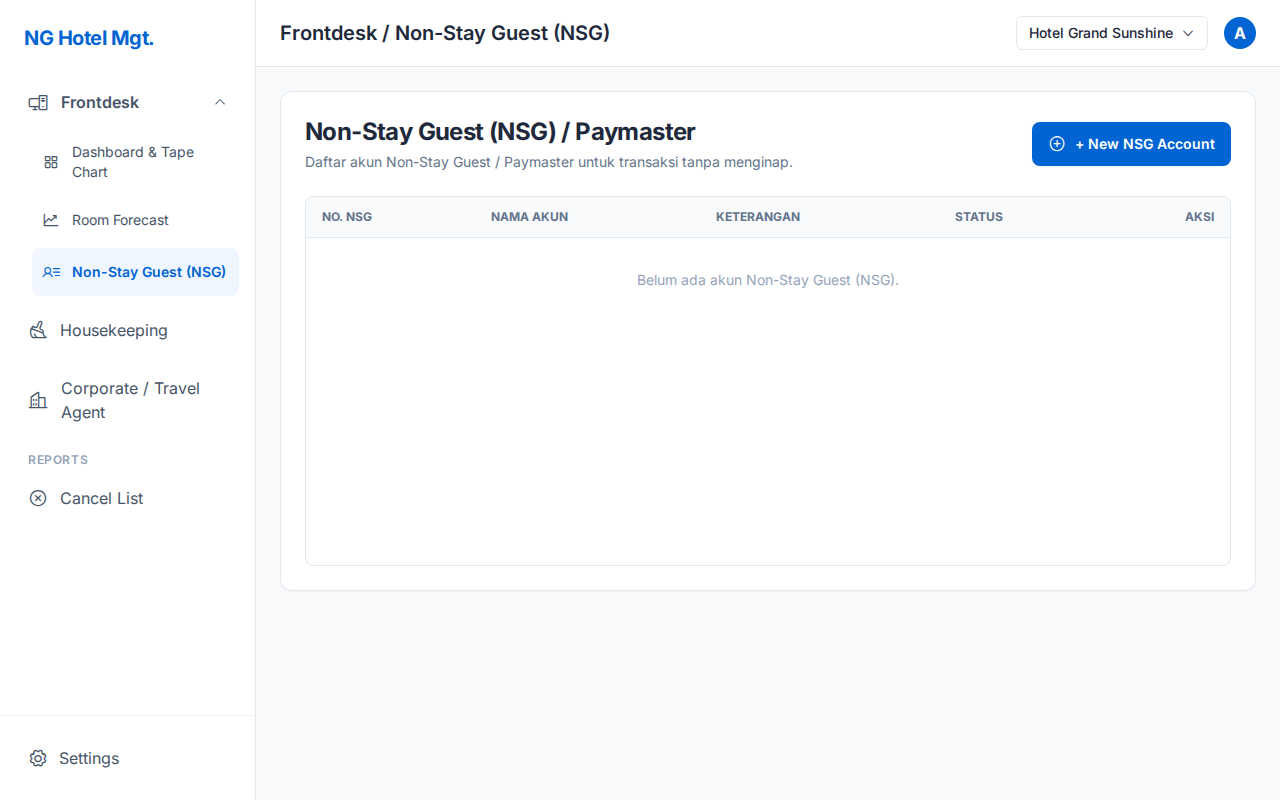
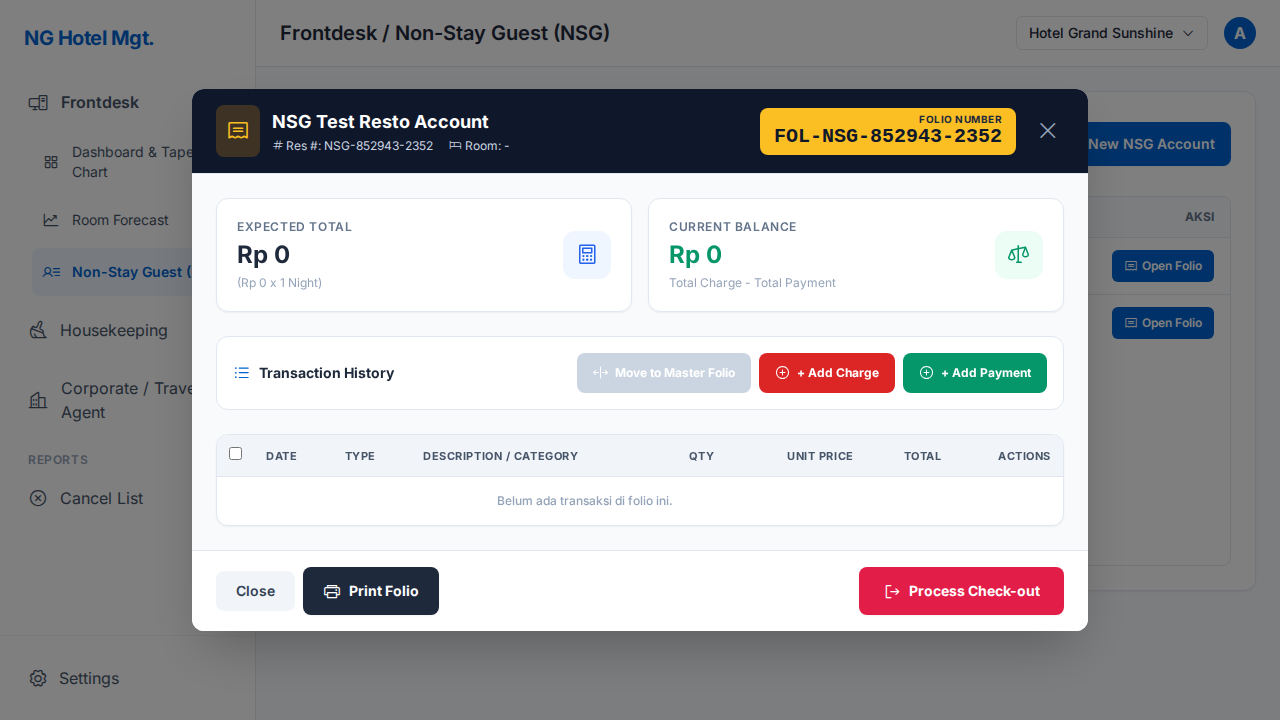
feat: implement fetchNsgList and handleSaveNsg for NSG module

diff --git a/index.html b/index.html
@@ -101,7 +101,7 @@
                 </button>
             </div>
 
-            <form id="nsgAccountForm" onsubmit="event.preventDefault();" class="space-y-4">
+            <form id="nsgAccountForm" onsubmit="handleSaveNsg(event)" class="space-y-4">
                 <div>
                     <label class="block text-xs font-medium text-slate-600 mb-1">Nama Akun <span class="text-red-500">*</span></label>
                     <input type="text" id="nsgAccountName" required placeholder="Contoh: NSG - Restaurant / Event" class="w-full px-3 py-2 border border-slate-200 rounded-md text-sm focus:outline-none focus:border-primary">
@@ -9540,7 +9540,7 @@
             }
         }
 
-        // Modal Handlers for NSG Account
+        // Modal Handlers & JS Logic for NSG (Non-Stay Guest) Account
         function openNsgAccountModal() {
             const modal = document.getElementById('nsgAccountModal');
             if (modal) {
@@ -9556,6 +9556,137 @@
                 modal.classList.add('hidden');
                 const form = document.getElementById('nsgAccountForm');
                 if (form) form.reset();
+            }
+        }
+
+        async function fetchNsgList() {
+            const tbody = document.getElementById('nsg-list-tbody');
+            if (!tbody) return;
+
+            tbody.innerHTML = `
+                <tr>
+                    <td colspan="5" class="py-8 text-center text-slate-400">
+                        <i class="ph ph-spinner animate-spin text-2xl inline-block mb-2"></i>
+                        <div>Memuat data Non-Stay Guest...</div>
+                    </td>
+                </tr>
+            `;
+
+            try {
+                const { data, error } = await supabaseClient
+                    .from('reservations')
+                    .select('*')
+                    .eq('guest_type', 'Non-Staying Guest')
+                    .order('created_at', { ascending: false });
+
+                if (error) throw error;
+
+                if (!data || data.length === 0) {
+                    tbody.innerHTML = `
+                        <tr>
+                            <td colspan="5" class="py-8 text-center text-slate-400">
+                                Belum ada akun Non-Stay Guest (NSG).
+                            </td>
+                        </tr>
+                    `;
+                    return;
+                }
+
+                tbody.innerHTML = data.map(item => {
+                    const resNo = item.reservation_number || (item.id ? item.id.slice(0, 8) : '-');
+                    const accountName = item.booker_name || '-';
+                    const description = item.comment || '-';
+                    const status = item.status || 'Checkin';
+
+                    return `
+                        <tr class="hover:bg-slate-50 transition-colors">
+                            <td class="py-3 px-4 font-mono font-medium text-slate-800">${resNo}</td>
+                            <td class="py-3 px-4 font-medium text-slate-900">${accountName}</td>
+                            <td class="py-3 px-4 text-slate-600">${description}</td>
+                            <td class="py-3 px-4">
+                                <span class="inline-block px-2 py-0.5 text-xs font-semibold rounded-full bg-emerald-100 text-emerald-800 border border-emerald-200">
+                                    ${status}
+                                </span>
+                            </td>
+                            <td class="py-3 px-4 text-right">
+                                <button onclick="openFolioModal('${item.id}')" class="px-3 py-1.5 bg-primary hover:bg-blue-700 text-white text-xs font-semibold rounded-md transition-colors shadow-xs inline-flex items-center gap-1 cursor-pointer">
+                                    <i class="ph ph-receipt text-sm"></i> Open Folio
+                                </button>
+                            </td>
+                        </tr>
+                    `;
+                }).join('');
+
+            } catch (err) {
+                console.error('Error fetching NSG list:', err);
+                tbody.innerHTML = `
+                    <tr>
+                        <td colspan="5" class="py-8 text-center text-red-500">
+                            Gagal memuat data NSG: ${err.message}
+                        </td>
+                    </tr>
+                `;
+            }
+        }
+
+        async function handleSaveNsg(event) {
+            if (event) event.preventDefault();
+
+            const accountNameInput = document.getElementById('nsgAccountName');
+            const descriptionInput = document.getElementById('nsgAccountDescription');
+            const submitBtn = document.getElementById('nsgAccountSubmitBtn');
+
+            const accountName = accountNameInput ? accountNameInput.value.trim() : '';
+            const description = descriptionInput ? descriptionInput.value.trim() : '';
+
+            if (!accountName) {
+                alert('Nama Akun wajib diisi!');
+                return;
+            }
+
+            if (submitBtn) {
+                submitBtn.disabled = true;
+                submitBtn.innerHTML = `<i class="ph ph-spinner animate-spin text-lg"></i> Menyimpan...`;
+            }
+
+            try {
+                const todayISO = new Date().toISOString().split('T')[0];
+                const randomNum = Math.floor(1000 + Math.random() * 9000);
+                const nsgNumber = `NSG-${Date.now().toString().slice(-6)}-${randomNum}`;
+
+                const payload = {
+                    guest_type: 'Non-Staying Guest',
+                    status: 'Checkin',
+                    qty: 1,
+                    room_id: null,
+                    booker_name: accountName,
+                    comment: description,
+                    reservation_number: nsgNumber,
+                    check_in_date: todayISO,
+                    check_out_date: todayISO,
+                    nights: 1,
+                    room_rate: 0
+                };
+
+                const { data, error } = await supabaseClient
+                    .from('reservations')
+                    .insert([payload])
+                    .select();
+
+                if (error) throw error;
+
+                alert('Akun Non-Stay Guest (NSG) berhasil dibuat!');
+                closeNsgAccountModal();
+                await fetchNsgList();
+
+            } catch (err) {
+                console.error('Error saving NSG account:', err);
+                alert('Gagal menyimpan akun NSG: ' + err.message);
+            } finally {
+                if (submitBtn) {
+                    submitBtn.disabled = false;
+                    submitBtn.innerHTML = 'Simpan';
+                }
             }
         }
 
@@ -9614,6 +9745,8 @@
                 if (nsgView) nsgView.classList.remove('hidden');
 
                 if (navNsg) navNsg.className = "flex items-center gap-3 p-2.5 rounded-lg bg-blue-50 text-primary font-semibold transition-colors text-sm";
+
+                fetchNsgList();
             } else if (viewName === 'room-forecast') {
                 toggleFrontdeskAccordion(true);
                 if (frontdeskTopbar) frontdeskTopbar.classList.remove('hidden');
